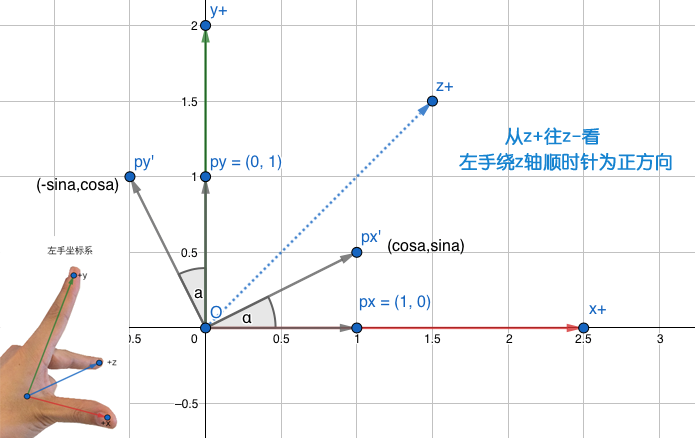
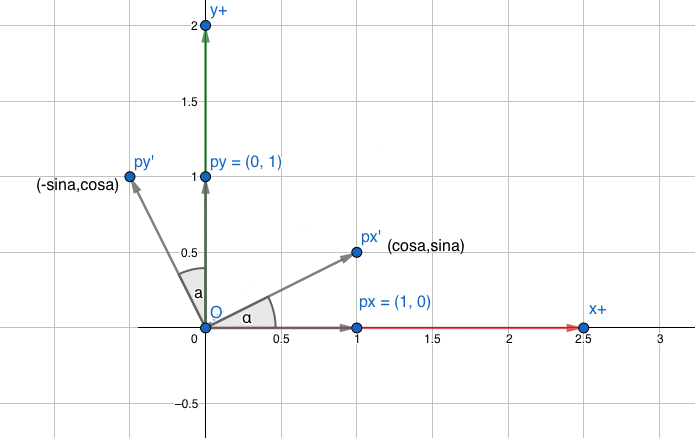
修改二维旋转推导

diff --git a/_posts/2018-10-29-矩阵变换.md b/_posts/2018-10-29-矩阵变换.md
@@ -361,17 +361,107 @@ aL(p) = L(ap)
 
 #### 2d平移、缩放、旋转
 
-平移
+##### 平移
 
 ![image](/img/u_53.png)
 
-缩放
+##### 缩放
 ![image](/img/u_54.png)
 
-复合变换
+##### 复合变换
 ![image](/img/u_55.png)
 
-旋转参见3d旋转绕z轴旋转
+##### 旋转
+
+px逆时针旋转到px',py旋转旋转到py'
+
+![image](/img/u_58.png)
+
+
+得出下式，矩阵R左乘旋转列向量
+
+![image](/img/u_115.png)
+
+##### 被动旋转和主动旋转
+
+被动旋转(Alias)：坐标系旋转，点是被动的转。
+
+主动旋转(Alibi)：点自己主动旋转，坐标系不变. 
+
+上面的R(a)矩阵就表示逆时针旋转角度a，或坐标系旋转相同角度但相反方向(即顺时针方向)。
+
+![image](/img/u_126.png)
+
+下列Unity Shader示例实现了一个UV顺时针旋转动画。
+
+![image](/img/uv.gif)
+
+```c
+Shader "Unlit/UVRotation"
+{
+	Properties{_MainTex ("Texture", 2D) = "white" {}}
+	SubShader
+	{
+		Tags { "RenderType"="Opaque" }
+		LOD 100
+		Blend SrcAlpha OneMinusSrcAlpha
+
+		Pass
+		{
+			CGPROGRAM
+			#pragma vertex vert
+			#pragma fragment frag
+			#include "UnityCG.cginc"
+
+			struct appdata
+			{
+				float4 vertex : POSITION;
+				float2 uv : TEXCOORD0;
+			};
+
+			struct v2f
+			{
+				float2 uv : TEXCOORD0;
+				float4 vertex : SV_POSITION;
+			};
+
+			sampler2D _MainTex;
+			float4 _MainTex_ST;
+			
+			v2f vert (appdata v)
+			{
+				v2f o;
+				o.vertex = UnityObjectToClipPos(v.vertex);
+				o.uv = TRANSFORM_TEX(v.uv, _MainTex);
+				return o;
+			}
+			
+			fixed4 frag (v2f i) : SV_Target
+			{
+				float2 defaultUV = i.uv;
+				defaultUV.xy -= float2(0.5,0.5);
+				if (length(defaultUV) > 0.5) {
+					return fixed4(0,0,0,0);
+				}
+				float angle = _Time.y;
+				float x = defaultUV.x*cos(angle) - defaultUV.y*sin(angle);
+				float y = defaultUV.x*sin(angle) + defaultUV.y*cos(angle);
+				i.uv.x = x;
+				i.uv.y = y;
+				i.uv.xy += float2(0.5, 0.5);
+				
+				fixed4 col = tex2D(_MainTex, i.uv);
+				return col;
+			}
+			ENDCG
+		}
+	}
+}
+
+
+```
+
+
 
 #### 3d平移、缩放、旋转
 
@@ -542,16 +632,7 @@ mul(matrix, position) --->  mul(position, transpose(matrix))
 
 ![image](/img/u_124.png)
 
-推导一:px旋转到px',py旋转到py'
-
-![image](/img/u_58.png)
-
-得出下式
-
-![image](/img/u_115.png)
-
-
-推导二:如果点P是绕z轴顺时针(z+向z-看)旋转a到P'.
+推导:如果点P是绕z轴顺时针(z+向z-看)旋转a到P'.
 
 ![image](/img/u_58_2.png)
 
